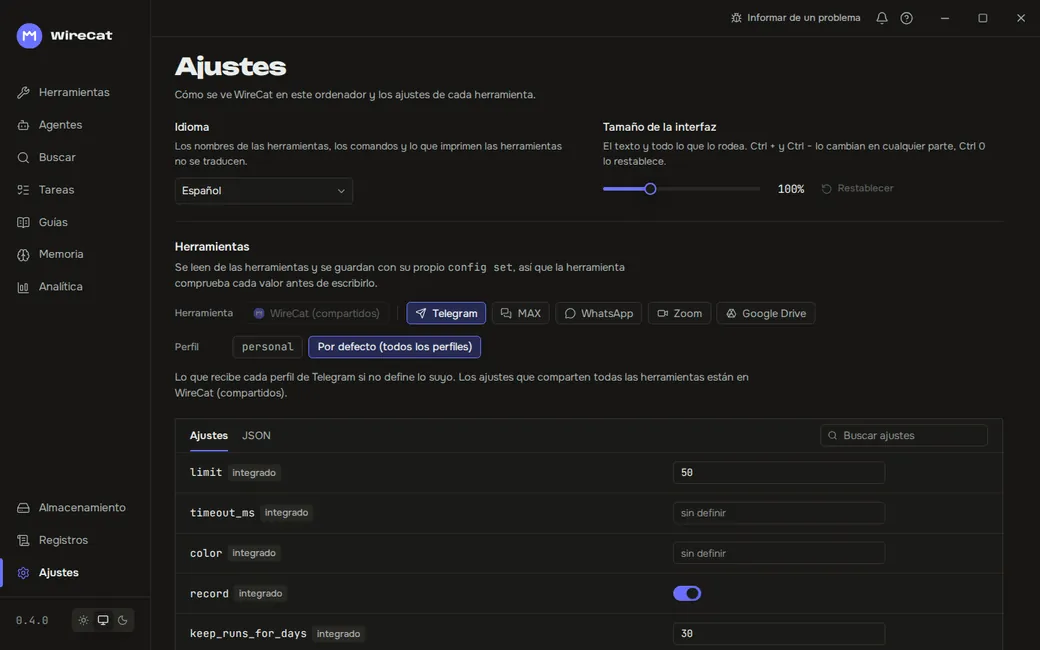
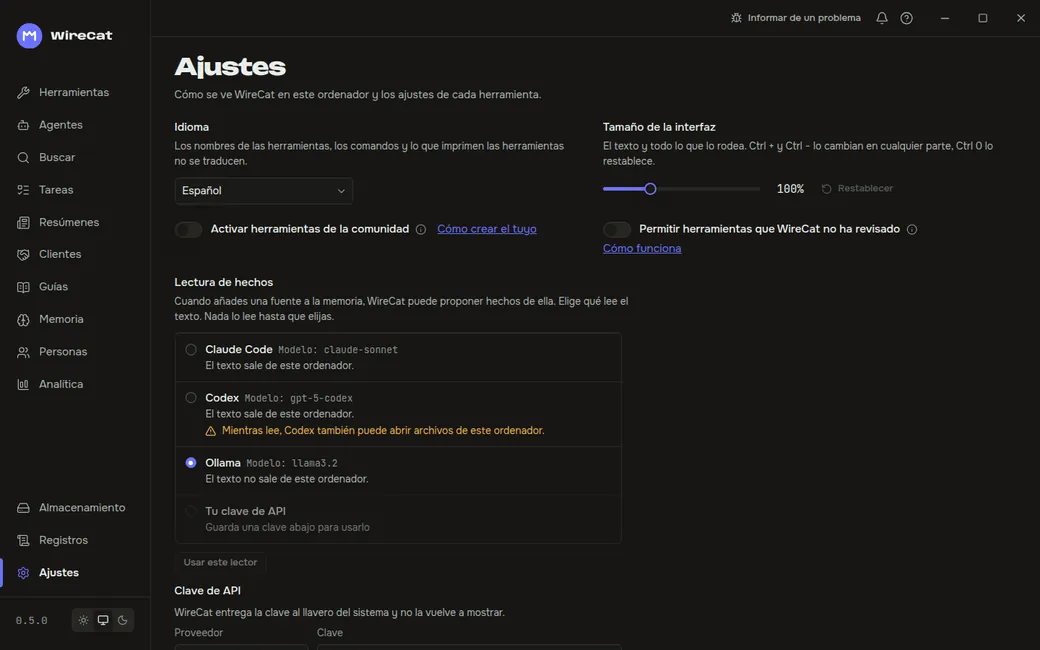
docs(desktop): retake the Settings screenshots from Desktop main
The Settings page changed since 0.4: the sidebar has Digests, Clients and
People, the two tool switches sit side by side under the language and the
size, and Reading for facts follows them. The old shots showed a tool's
settings table at the top, which is now further down the page.

- settings-{light,dark}-{en,ru,es}: recaptured from the browser build of
  wirecat-desktop main (16449d9d) with ?showcase&section=settings, 1440x900,
  cropped with scripts/crop-desktop-screenshots.mjs --docs
- own-settings: recaptured with both switches on, 1280x400, and RU/ES added
- alt text and caption of the settings shot follow what it now shows

diff --git a/docs/screenshots-to-capture.md b/docs/screenshots-to-capture.md
@@ -70,9 +70,10 @@ see its CLAUDE.md), with the sample data of `?showcase`. The language comes from
 | `storage` | Storage page with folders, backups and tables | `?showcase&section=storage` | Missing |
 | `settings` | Settings page: language, interface size, a tool's settings | `?showcase&section=settings` | Missing |
 
-Own tools (`own-settings`, `own-name`, `own-review`, `own-confirm`, `own-tools-list`, `own-refused`): English only,
-copied from wirecat-desktop `docs/images/own-*.webp` (1280 wide, not 16:10). Russian and Spanish pages show the English
-capture until `{shot}-{light,dark}-{ru,es}.webp` exist.
+Own tools (`own-name`, `own-review`, `own-confirm`, `own-tools-list`, `own-refused`): English only, copied from
+wirecat-desktop `docs/images/own-*.webp` (1280 wide, not 16:10). Russian and Spanish pages show the English capture
+until `{shot}-{light,dark}-{ru,es}.webp` exist. `own-settings` has all six: `capture.mjs` at `--width 1280 --height 400`
+with `?showcase&section=settings&community=1&own=on`, saved as WebP without resizing.
 
 Existing and used: `tools`, `agents`, `search-hit`, `tasks`, `memory`, `connect`. At least `tools` and `memory`
 predate 0.4: the sidebar has no Analytics, and Memory has no Edit or More menu. Recapture them when convenient
